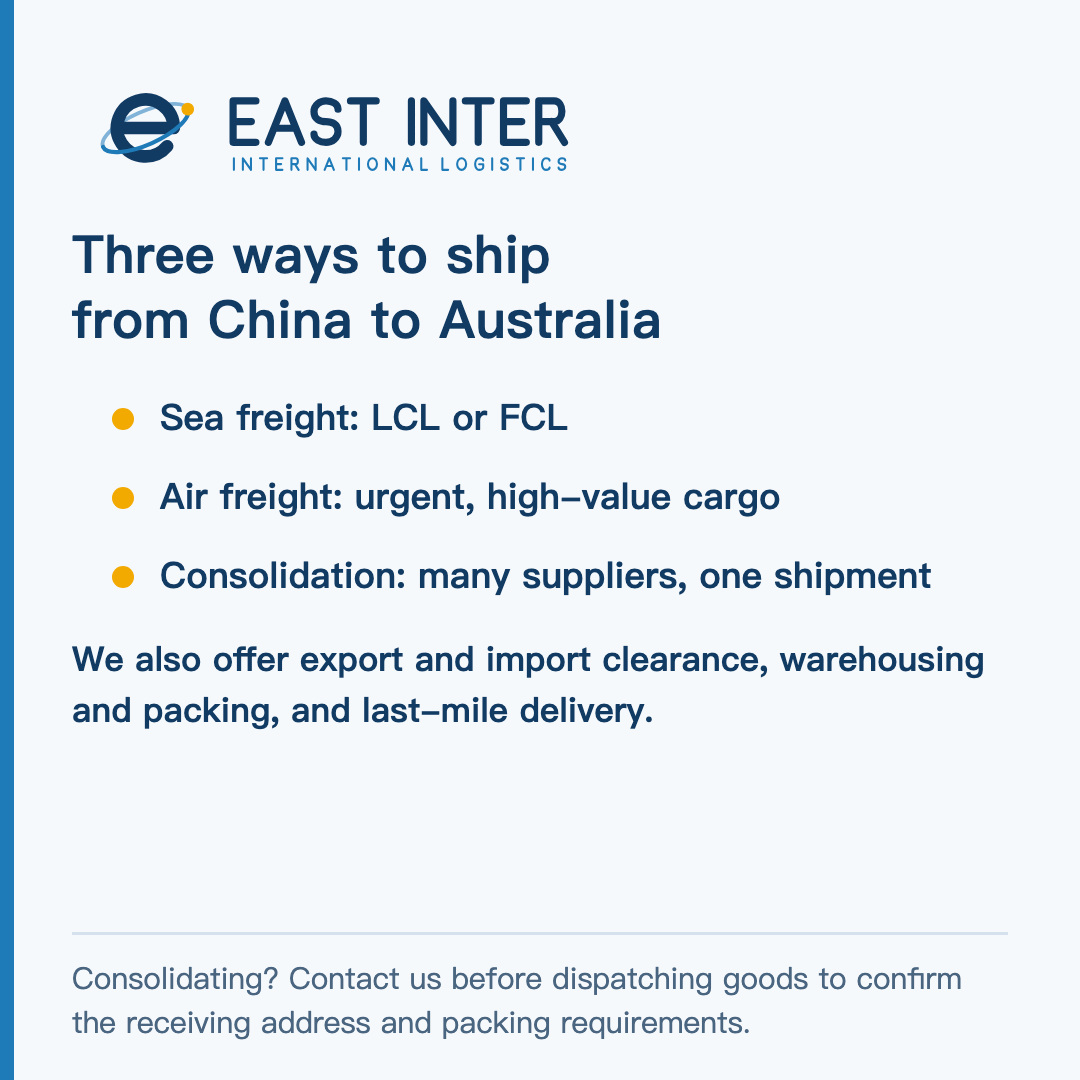
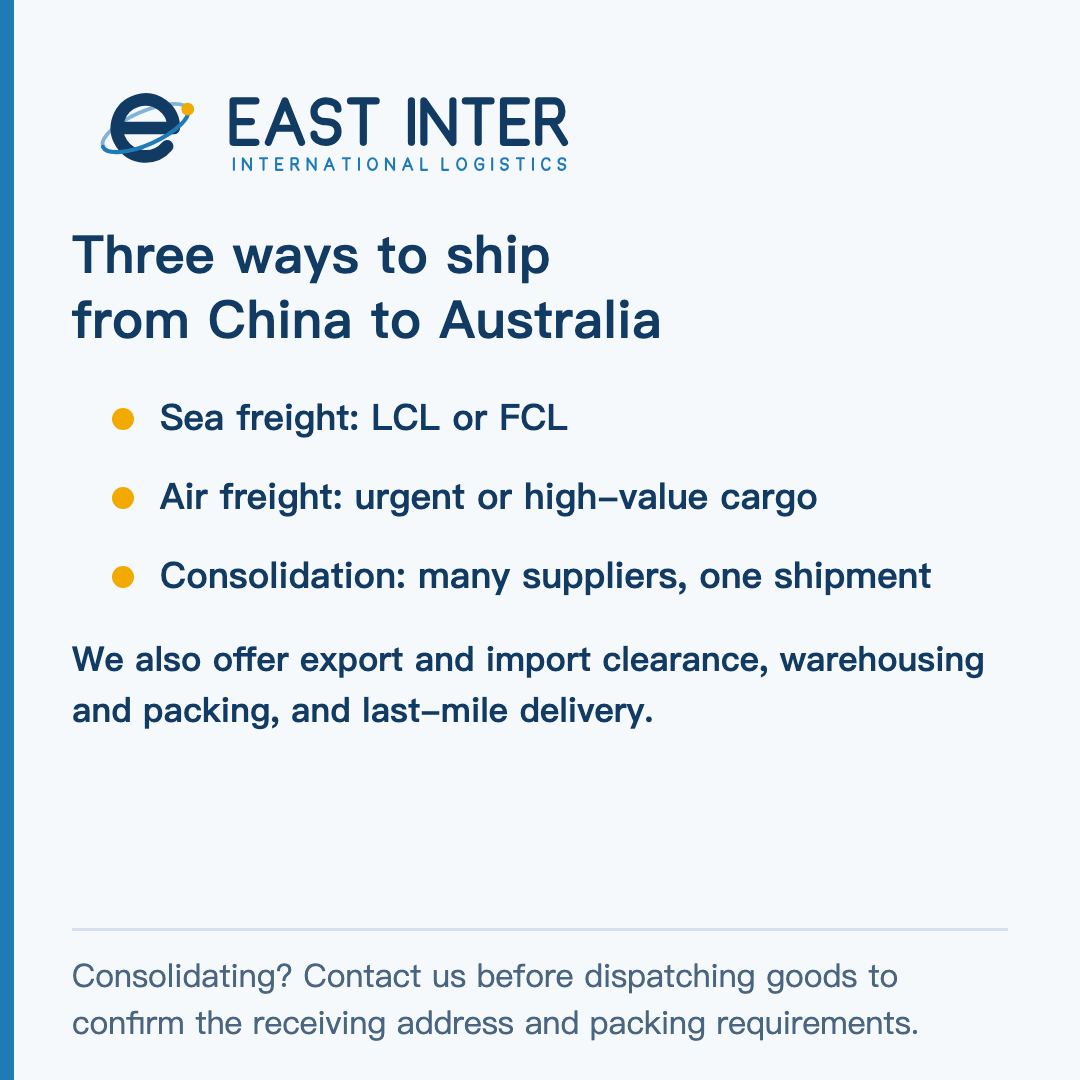
docs(client): 英文稿按苏东坡复审改（D2 卡、D3、D5、D6、D7）；GST 问题已由计算器原文解答 [east.social.copy-101]

Changed region(s): [[0.0611, 0.8556, 0.9167, 0.9778], [0.4278, 0.4278, 0.7639, 0.4889]]

diff --git a/docs/clients/east-inter/cards-draft/d2-en.html b/docs/clients/east-inter/cards-draft/d2-en.html
@@ -25,4 +25,4 @@ h1{font-size:60px;line-height:1.25;font-weight:800;letter-spacing:.5px}
 <path d="M 230.60 46.00 H 202.00 V 98.00 H 230.60 M 202.00 72.00 H 224.88 M 246.20 98.00 L 267.00 46.00 L 287.80 98.00 M 254.52 80.32 H 279.48 M 333.56 56.40 C 333.56 49.64 326.02 46.00 318.48 46.00 C 310.94 46.00 303.40 51.20 303.40 59.52 C 303.40 68.88 310.94 72.00 318.48 72.00 C 326.02 72.00 333.56 75.12 333.56 84.48 C 333.56 92.80 326.02 98.00 318.48 98.00 C 310.94 98.00 303.40 94.36 303.40 87.60 M 349.16 46.00 H 381.40 M 365.28 46.00 V 98.00 M 425.60 46.00 V 98.00 M 441.20 98.00 V 46.00 L 477.60 98.00 V 46.00 M 493.20 46.00 H 525.44 M 509.32 46.00 V 98.00 M 569.64 46.00 H 541.04 V 98.00 H 569.64 M 541.04 72.00 H 563.92 M 585.24 98.00 V 46.00 H 604.58 C 617.48 46.00 617.48 72.00 604.58 72.00 H 585.24 M 601.36 72.00 L 617.48 98.00" fill="none" stroke="#123B63" stroke-width="9" stroke-linecap="round" stroke-linejoin="round"/>
 <path d="M 203.00 118.00 V 132.50 M 214.25 132.50 V 118.00 L 224.40 132.50 V 118.00 M 235.65 118.00 H 244.64 M 240.15 118.00 V 132.50 M 263.87 118.00 H 255.89 V 132.50 H 263.87 M 255.89 125.25 H 262.27 M 275.12 132.50 V 118.00 H 280.51 C 284.11 118.00 284.11 125.25 280.51 125.25 H 275.12 M 279.61 125.25 L 284.11 132.50 M 295.36 132.50 V 118.00 L 305.51 132.50 V 118.00 M 316.76 132.50 L 322.56 118.00 L 328.36 132.50 M 319.08 127.57 H 326.04 M 339.61 118.00 H 348.60 M 344.10 118.00 V 132.50 M 359.85 118.00 V 132.50 M 376.75 118.00 C 379.58 118.00 382.41 120.90 382.41 125.25 C 382.41 129.60 379.58 132.50 376.75 132.50 C 373.93 132.50 371.10 129.60 371.10 125.25 C 371.10 120.90 373.93 118.00 376.75 118.00 Z M 393.66 132.50 V 118.00 L 403.81 132.50 V 118.00 M 415.06 132.50 L 420.86 118.00 L 426.66 132.50 M 417.38 127.57 H 424.34 M 437.91 118.00 V 132.50 H 445.16 M 464.39 118.00 V 132.50 H 471.64 M 488.54 118.00 C 491.37 118.00 494.20 120.90 494.20 125.25 C 494.20 129.60 491.37 132.50 488.54 132.50 C 485.71 132.50 482.89 129.60 482.89 125.25 C 482.89 120.90 485.71 118.00 488.54 118.00 Z M 515.60 120.90 C 515.60 119.16 513.06 118.00 510.52 118.00 C 507.98 118.00 505.45 120.90 505.45 125.25 C 505.45 129.60 507.98 132.50 510.52 132.50 C 513.06 132.50 515.60 131.05 515.60 128.88 V 125.54 H 510.52 M 526.85 118.00 V 132.50 M 546.51 120.90 C 546.51 119.02 544.41 118.00 542.30 118.00 C 540.20 118.00 538.10 119.45 538.10 121.77 C 538.10 124.38 540.20 125.25 542.30 125.25 C 544.41 125.25 546.51 126.12 546.51 128.73 C 546.51 131.05 544.41 132.50 542.30 132.50 C 540.20 132.50 538.10 131.49 538.10 129.60 M 557.76 118.00 H 566.75 M 562.25 118.00 V 132.50 M 578.00 118.00 V 132.50 M 598.82 120.90 C 598.82 119.16 596.43 118.00 594.03 118.00 C 591.64 118.00 589.25 120.90 589.25 125.25 C 589.25 129.60 591.64 132.50 594.03 132.50 C 596.43 132.50 598.82 131.34 598.82 129.60 M 618.48 120.90 C 618.48 119.02 616.38 118.00 614.28 118.00 C 612.17 118.00 610.07 119.45 610.07 121.77 C 610.07 124.38 612.17 125.25 614.28 125.25 C 616.38 125.25 618.48 126.12 618.48 128.73 C 618.48 131.05 616.38 132.50 614.28 132.50 C 612.17 132.50 610.07 131.49 610.07 129.60" fill="none" stroke="#1F7AB8" stroke-width="2.6" stroke-linecap="round" stroke-linejoin="round"/>
 </svg>
-</div><div class="main"><h1>Three ways to ship<br>from China to Australia</h1><ul class='list' style='margin-top:26px'><li style='font-size:36px'>Sea freight: LCL or FCL</li><li style='font-size:36px'>Air freight: urgent, high-value cargo</li><li style='font-size:36px'>Consolidation: many suppliers, one shipment</li></ul><div class='sub' style='font-size:34px;margin-top:20px'>We also offer export and import clearance, warehousing and packing, and last-mile delivery.</div></div><div class="foot">Consolidating? Contact us before dispatching goods to confirm the receiving address and packing requirements.</div></body></html>
+</div><div class="main"><h1>Three ways to ship<br>from China to Australia</h1><ul class='list' style='margin-top:26px'><li style='font-size:36px'>Sea freight: LCL or FCL</li><li style='font-size:36px'>Air freight: urgent or high-value cargo</li><li style='font-size:36px'>Consolidation: many suppliers, one shipment</li></ul><div class='sub' style='font-size:34px;margin-top:20px'>We also offer export and import clearance, warehousing and packing, and last-mile delivery.</div></div><div class="foot">Consolidating? Contact us before dispatching goods to confirm the receiving address and packing requirements.</div></body></html>

diff --git a/docs/clients/east-inter/2026-10-14-d1-d7-copy-en-draft.md b/docs/clients/east-inter/2026-10-14-d1-d7-copy-en-draft.md
@@ -4,7 +4,7 @@
 - **Status**: draft only. Nothing published, no switch set, no database write. Risk C. D1/D2/D4 cards and copy go to Sudongpo (copy) and Maliang (visuals); price cards 1 and 2 (English) already passed both. D3/D5/D6/D7 below are text drafts only, not yet reviewed.
 - **Rules kept**: facts only from www.eastinter.com.au (calculator page included); say "current rates", never a month; every price carries "Indicative estimate. Final charges are subject to a binding quote."; no "spots left", no early-bird, no countdown, no "live tracking" (the site says online tracking is not connected yet).
 - **Spelling**: Australian English. Prices in A$.
-- **Open for the client / PM**: whether the A$ figures include GST (the calculator page does not say). Until answered, price copy keeps "Not included: GST, import duty, fumigation, customs broker fee" and says "estimate".
+- **GST (resolved 10-14 by Sudongpo)**: the calculator's own result note for sea freight says "Not included: any applicable GST (10% of goods value), import duty (0–10%) ..."; bulk air DDP says duties and taxes are included, DDU says they are not. So the A$ figures for sea freight do not include GST, and the cards already say so. No question for the client.
 
 ## Facts used (page → fact)
 
@@ -30,7 +30,7 @@ Somewhere else? Just ask our team.
 
 Sea freight, air freight and door-to-door delivery. One team, from China to your door in Australia.
 ```
-First comment: `https://www.eastinter.com.au/?utm_source=facebook&utm_medium=organic&utm_campaign=eastinter-d1&utm_content=post`
+First comment: `https://www.eastinter.com.au/?utm_source=facebook&utm_medium=organic&utm_campaign=eastinter-d1&utm_content=post#coverage`
 
 ## D2 · Post · three ways (card: `d2-en.png`)
 
@@ -49,12 +49,12 @@ First comment: `.../?utm_source=facebook&utm_medium=organic&utm_campaign=eastint
 
 ## D3 · Reel (video factory only; blocked, see below)
 
-On-screen text (short lines, safe area y270–1248): "Four steps." / "China to Australia." / "1 Tell us your plans" / "2 Send it to our warehouse" / "3 We handle the journey" / "4 Delivered to your door".
+On-screen text (short lines, safe area y270–1248): "Four steps." / "China to Australia." / "1 Tell us what you're shipping" / "2 Send it to our warehouse" / "3 We handle the journey" / "4 Delivered to your door".
 Post text:
 ```
 China to Australia in four steps. Tell us what you are shipping, where from and where to, and we will help you choose a shipping option.
 ```
-First comment: `.../?utm_source=facebook&utm_medium=organic&utm_campaign=eastinter-d3&utm_content=reel#how` + "Contact us before dispatching goods to confirm the receiving address. Taxes, duties, insurance and destination charges should be confirmed before booking."
+First comment: `.../?utm_source=facebook&utm_medium=organic&utm_campaign=eastinter-d3&utm_content=reel#how` + "Taxes, duties, insurance and destination charges should be confirmed with our team before booking. Consolidating? Contact us before dispatching goods to confirm the receiving address."
 
 ## D4 · Post · quote checklist (card: `d4-en.png`)
 
@@ -73,17 +73,17 @@ Email our team: zzj@eastinter.net
 ```
 First comment: `.../?utm_source=facebook&utm_medium=organic&utm_campaign=eastinter-d4&utm_content=post#faq`
 
-## D5 · Post · weight rule (text only, unreviewed)
+## D5 · Post · weight rule (Sudongpo reviewed 10-14; edits applied)
 
 ```
-Which weight does the calculator use?
+How is parcel weight charged?
 
-The greater of actual weight and volume weight.
+For air parcels, sea parcels and bulk air, the calculator uses the greater of actual weight and volume weight.
 Volume weight = length × width × height (cm) ÷ 6,000.
 
-Example (just the formula, not a quote): a 50 × 40 × 30 cm box has a volume weight of 60,000 ÷ 6,000 = 10 kg. If the box actually weighs more, the actual weight is used.
+An illustration only, not a quote: a 40 × 30 × 20 cm box has a volume weight of 24,000 ÷ 6,000 = 4 kg. If the box actually weighs more, the actual weight is used.
 
-If you leave volume blank, the estimate uses actual weight only.
+If you leave volume blank, the estimate uses actual weight only. LCL sea freight is priced by cubic metre (m³).
 
 Indicative estimate. Final charges are subject to a binding quote.
 ```
@@ -97,13 +97,13 @@ Sea or air from China?
 
 Sea freight generally suits larger shipments when your schedule is flexible. Air freight suits urgent and higher-value goods.
 
-Not sure? Share your cargo details and the date you need it in Australia, and our team will recommend an option and confirm current transit estimates.
+Not sure? Share your cargo details and the date you need it in Australia, and our team can recommend an option and confirm current transit estimates.
 ```
 First comment: `.../?utm_source=facebook&utm_medium=organic&utm_campaign=eastinter-d6&utm_content=carousel#faq`
 
 ## D7 · Reel · calculator walkthrough (blocked; not reviewed)
 
-Screen recording of the real calculator, then big text: "Pick a service" / "Choose delivery" / "General or sensitive goods?" / "DDU or DDP" / "Enter weight and volume" / "Get an instant estimate". Figures shown only from a live run, labelled "example", with "Indicative estimate. Final charges are subject to a binding quote." on screen. The result panel shows the estimate and transit time, so this Reel carries numbers; confirm the GST question first.
+Screen recording of the real calculator (origin Guangzhou only; do not imply Shenzhen is quoted), then big text: "Pick a service" / "Choose delivery" / "Enter volume or weight" / "Get an instant estimate" (for bulk air: "DDU (duties unpaid) or DDP (duties prepaid)"; for air parcels: "General or sensitive goods?"). For sea freight the recording must show the page's own "Not included: GST, import duty, fumigation, broker fee" note on screen. Figures shown only from a live run, labelled "example", with "Indicative estimate. Final charges are subject to a binding quote." on screen. The result panel shows the estimate and transit time, so this Reel carries numbers.
 ```
 Instant estimate in AUD, with a clear cost breakdown. No sign-up.
 Indicative estimate. Final charges are subject to a binding quote.
